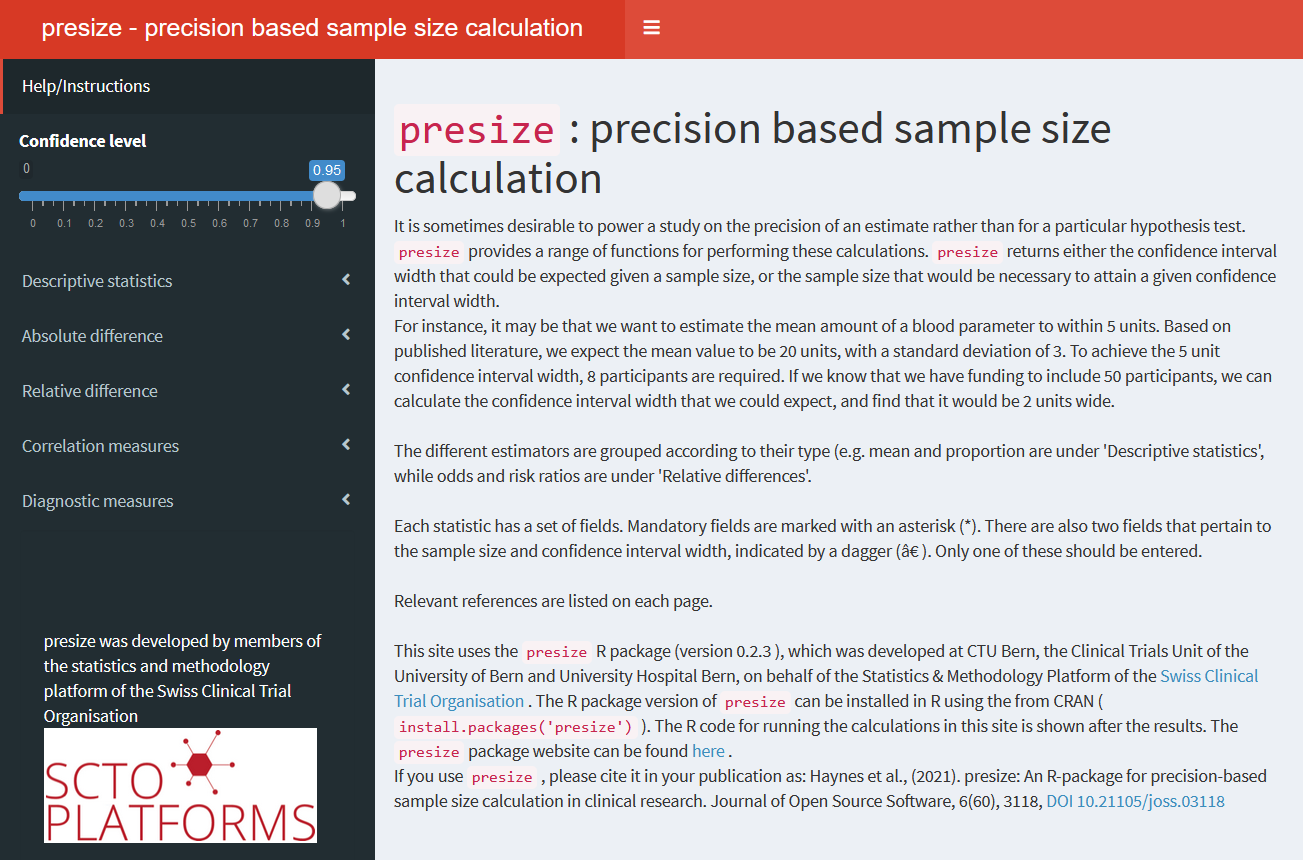
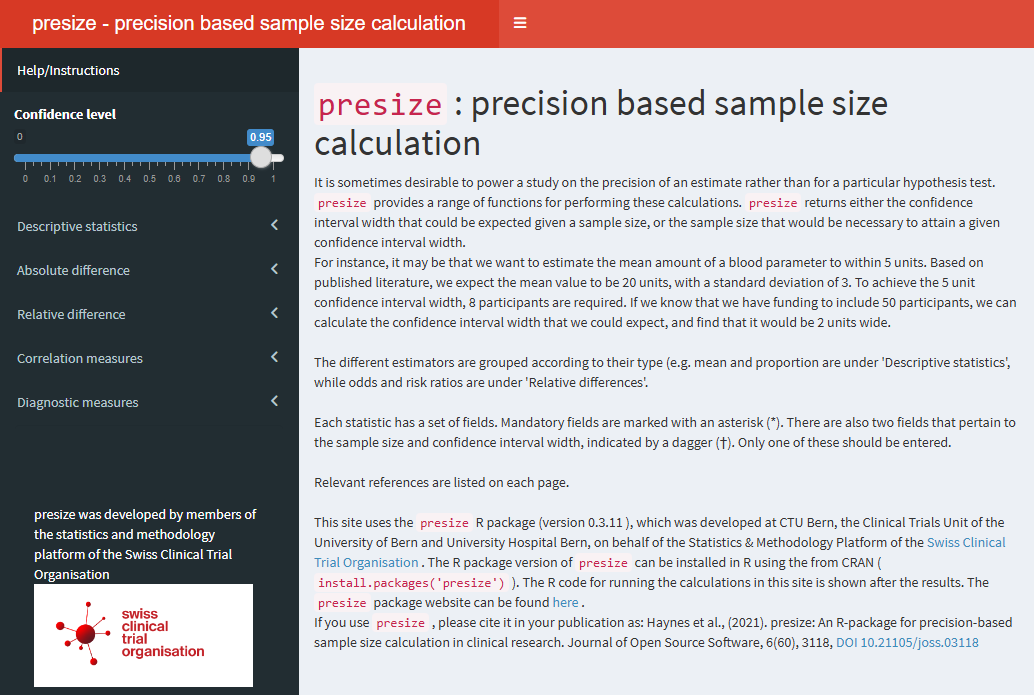
Built site for presize@0.3.12: 907664d

diff --git a/index.html b/index.html
@@ -267,7 +267,7 @@
 <h2 id="shiny-app">Shiny app<a class="anchor" aria-label="anchor" href="#shiny-app"></a>
 </h2>
 <p>An online interactive version of the package is available <a href="https://shiny.ctu.unibe.ch/presize" class="external-link">here</a>. The app can also be launched locally via <code><a href="reference/launch_presize_app.html">launch_presize_app()</a></code> in RStudio.</p>
-<p><img src="reference/figures/app.png" alt="" width="1303"></p>
+<p><img src="reference/figures/app.png" alt="" width="1034"></p>
 </div>
 <div class="section level2">
 <h2 id="getting-help">Getting help<a class="anchor" aria-label="anchor" href="#getting-help"></a>
@@ -286,7 +286,7 @@
 <h2 id="funding">Funding<a class="anchor" aria-label="anchor" href="#funding"></a>
 </h2>
 <p><code>presize</code> was largely developed at DCR, with collaboration from CTU Basel. Funding was provided by the Swiss Clinical Trial Organisation.</p>
-<p><img src="reference/figures/Red%20(3D)[email redacted]" alt="" width="1481"></p>
+<p><img src="reference/figures/newsctologo.png" alt="" width="1481"></p>
 <!-- ![](man/fig/scto_ctu_member_cmyk.jpg) -->
 </div>
 <div class="section level2">

diff --git a/index.md b/index.md
@@ -175,7 +175,7 @@ guidelines](https://github.com/dcr-unibe-ch/presize/blob/master/CONTRIBUTING.md)
 `presize` was largely developed at DCR, with collaboration from CTU
 Basel. Funding was provided by the Swiss Clinical Trial Organisation.
 
-![](reference/figures/Red%20(3D)[email redacted])
+![](reference/figures/newsctologo.png)
 
 ## Citation [![DOI](https://joss.theoj.org/papers/10.21105/joss.03118/status.svg)](https://doi.org/10.21105/joss.03118)
 